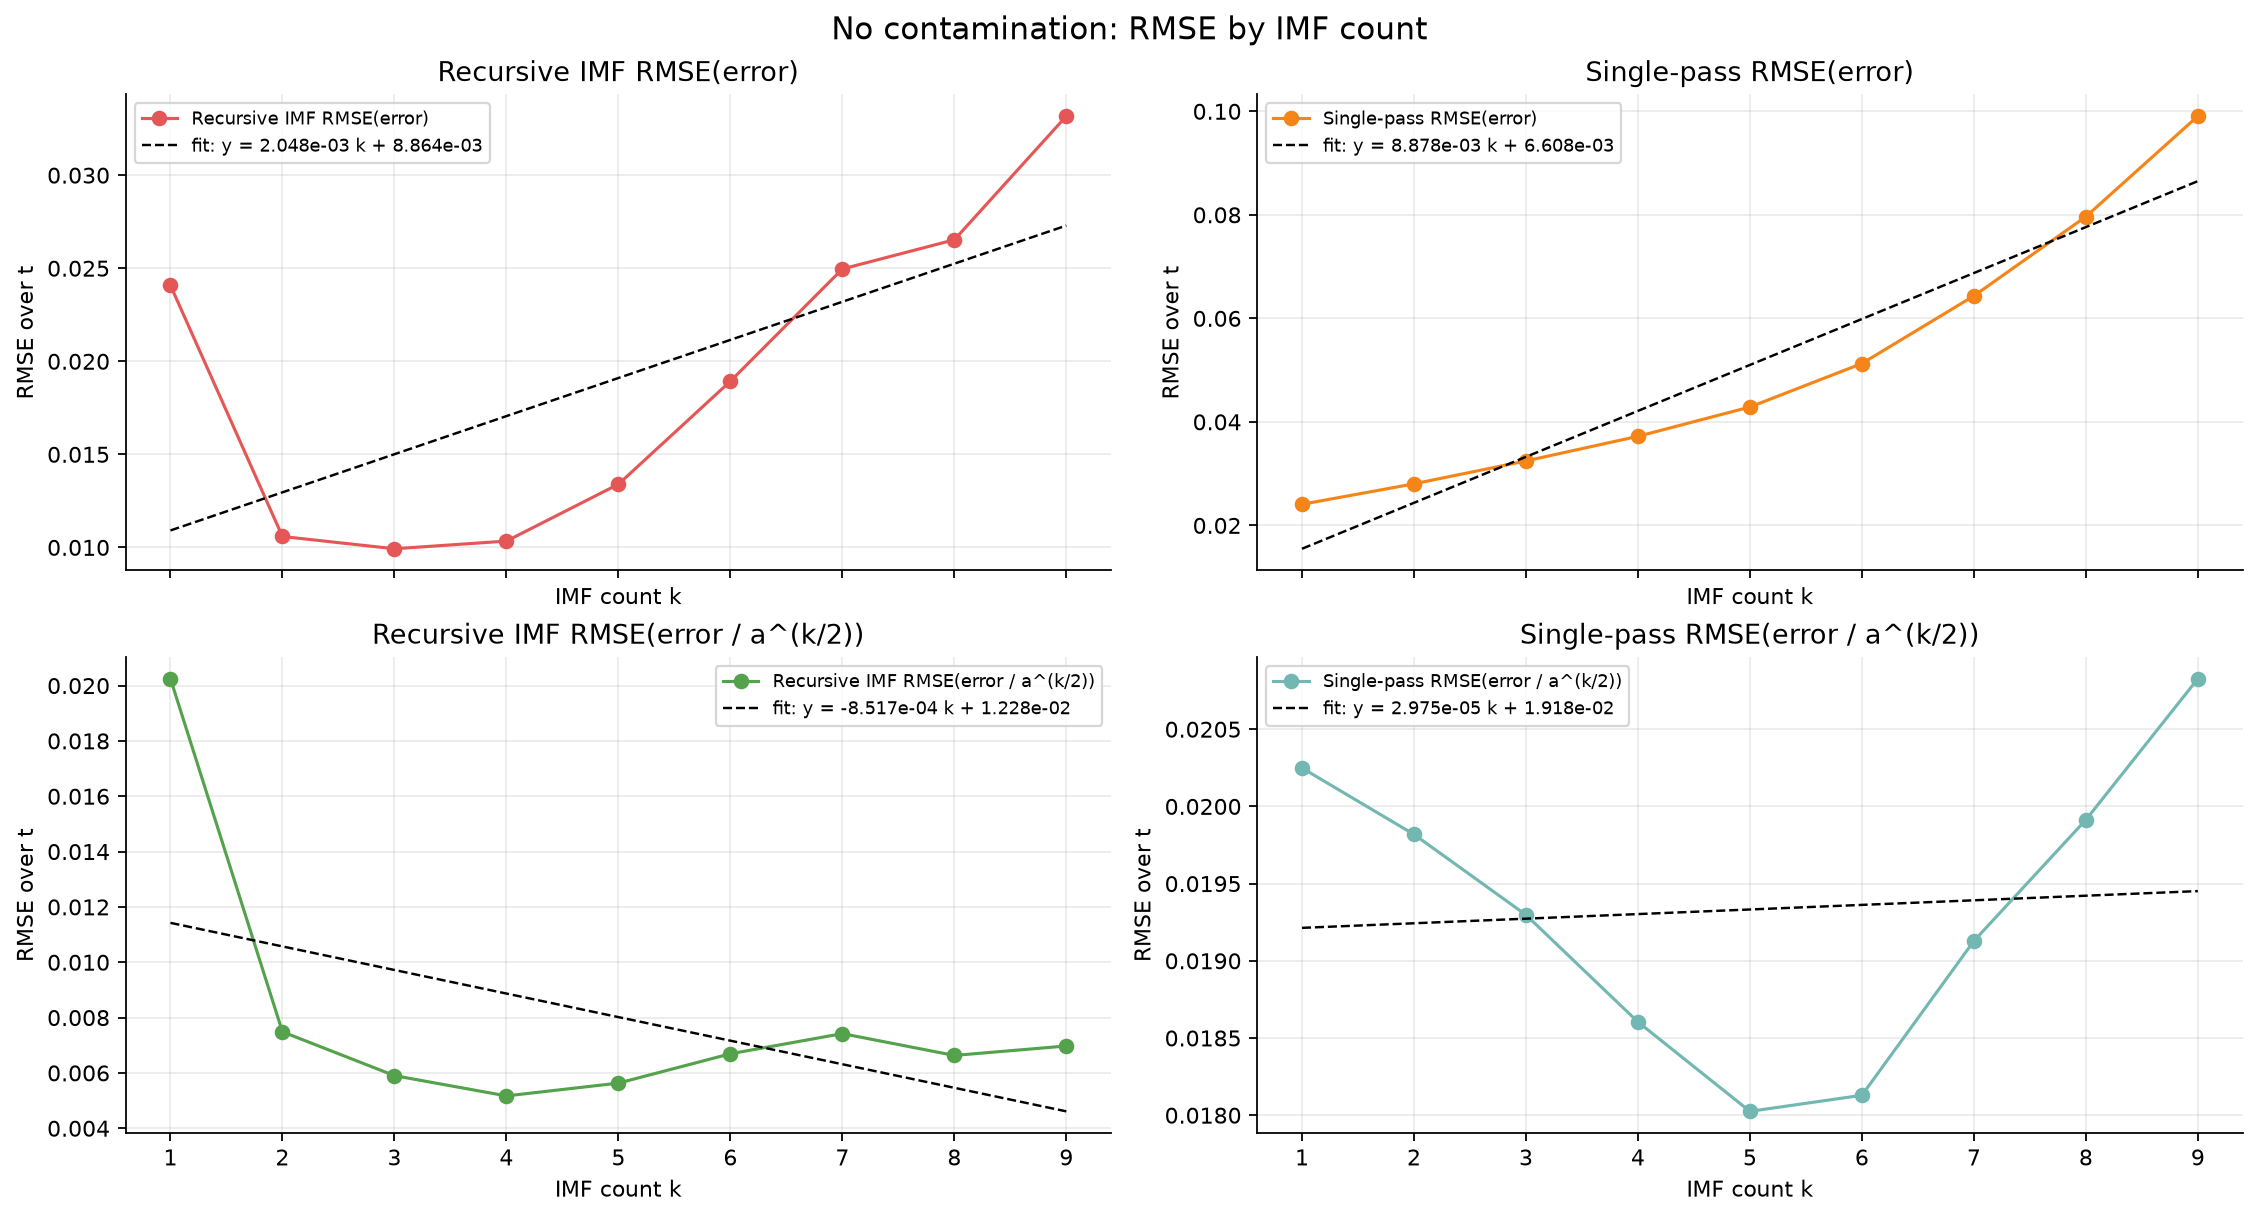
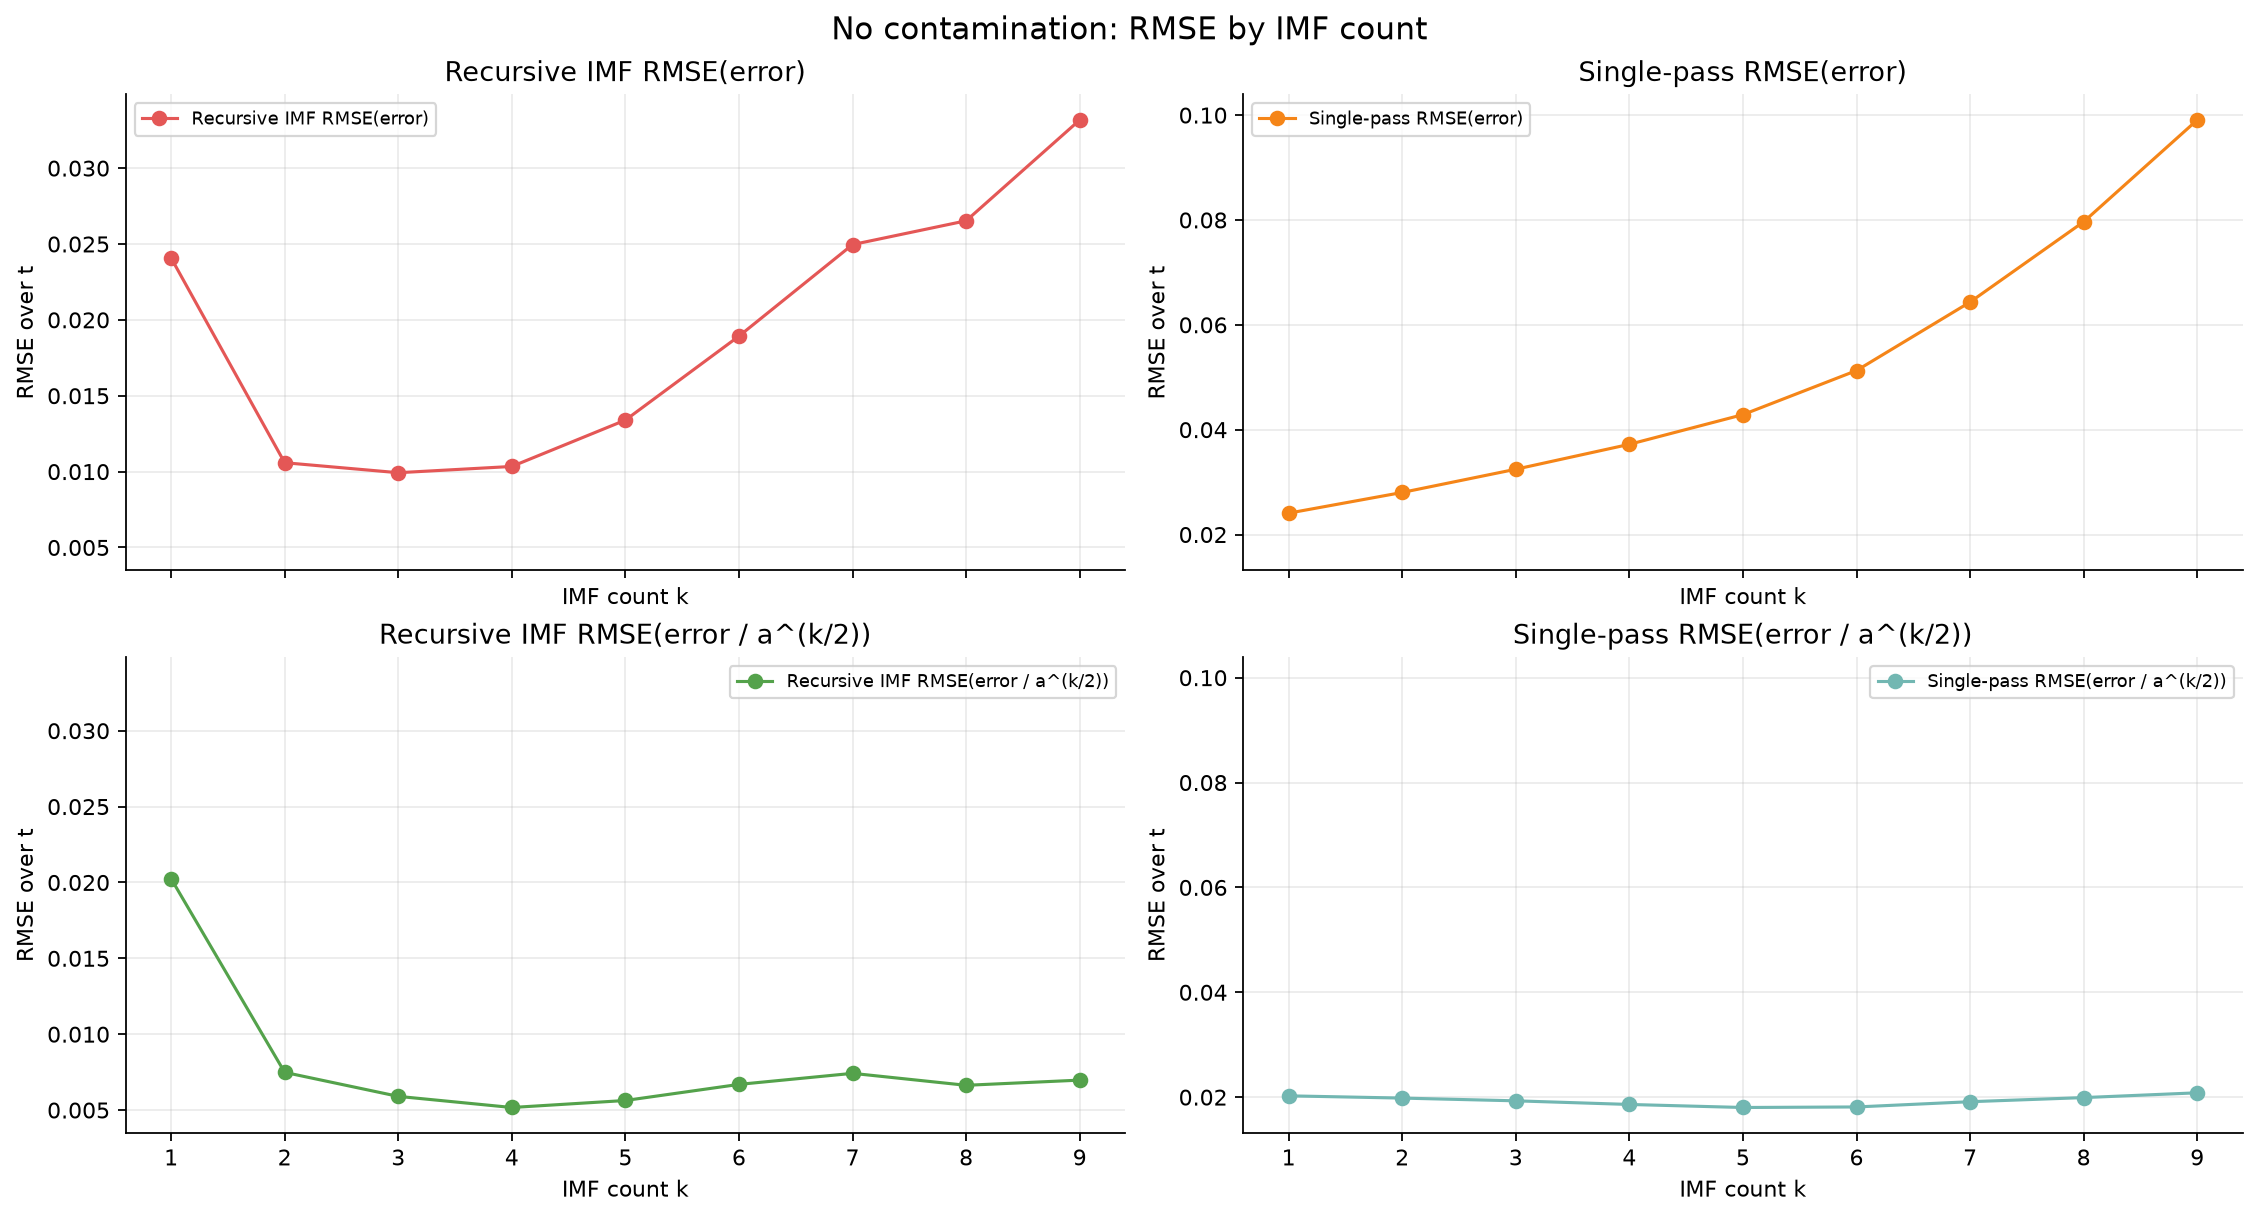
Remove error trend fit lines

diff --git a/gd_imf_real_vs_calculated_review.tex b/gd_imf_real_vs_calculated_review.tex
@@ -39,9 +39,19 @@ from the same signal and noise settings. The notebook compares two cases:
 \]
 Thus the clean reference uses the same contrast as the estimator in each case.
 
-The component errors below are errors of the recursive IMF components, not
-single-pass smoothing errors at each bandwidth. In the linear case, let
-\(W_{h_k}\) denote the weighted-mean smoother at bandwidth \(h_k\). Then
+There are two different error quantities in the notebook.
+
+\begin{enumerate}
+\item The \emph{recursive IMF-component error} is the error in the component that
+is actually extracted at stage \(k\):
+\[
+e_k(t)=\widetilde S^{(k)}_{\mathrm{calculated}}(t)
+-\widetilde S^{(k)}_{\mathrm{real}}(t).
+\]
+This is the error shown in the IMF grids. It is not just the stage-\(k\) smoother
+applied to the original noise, because stage \(k\) is fitted to the current
+residual after stages \(1,\ldots,k-1\) have already been subtracted. In the linear
+case, if \(W_{h_k}\) is the weighted-mean smoother at bandwidth \(h_k\), then
 \[
 e_1 = W_{h_1}\varepsilon,
 \qquad
@@ -49,18 +59,22 @@ e_k =
 W_{h_k}(I-W_{h_{k-1}})\cdots(I-W_{h_1})\varepsilon
 \quad (k>1).
 \]
-Thus the heuristic that larger windows have smaller noise error applies to the
-single-pass quantities
+
+\item The \emph{single-pass error} is the diagnostic error obtained by applying
+the stage-\(k\) smoother directly to the original clean and noisy observations,
+without recursive residual subtraction. In the linear case this quantity is
 \[
-d_k = W_{h_k}\varepsilon,
+d_k = W_{h_k}\varepsilon.
 \]
-while the recursive IMF errors also include the previous residual subtractions.
-The notebook reports both \(e_k\) and this single-pass diagnostic \(d_k\). The
-robust case is nonlinear, so \(d_k\) is computed as the difference between one
-robust local fit applied to \(Y\) and one robust local fit applied to \(X\) at the
-same bandwidth. The same interpretation applies because
-\(\widetilde S^{(k)}\) is always fitted to the current residual \(Y^{(k)}\), not
-to the original observation \(Y\).
+This is the quantity to use when checking the heuristic that larger windows have
+smaller noise error, and that the error grows as the window size decreases.
+\end{enumerate}
+
+The notebook reports both \(e_k\) and \(d_k\). The robust case is nonlinear, so
+\(d_k\) is computed as the difference between one robust local fit applied to
+\(Y\) and one robust local fit applied to \(X\) at the same bandwidth. The same
+distinction still applies because \(\widetilde S^{(k)}\) is always fitted to the
+current residual \(Y^{(k)}\), not directly to the original observation \(Y\).
 
 For the linear case, the contrast is quadratic,
 \[
@@ -140,13 +154,14 @@ The scalar error trend for each IMF count \(k\) is the RMSE over the time grid:
 \operatorname{RMSE}(e_k)
 = \left(\frac{1}{n}\sum_{t=1}^n e_k(t)^2\right)^{1/2}.
 \]
-The trend plots fit a line
+For the coefficient summaries, the notebook fits a line
 \[
 r_k = \beta_1 k + \beta_0
 \]
 to \(\operatorname{RMSE}(e_k)\), \(\operatorname{RMSE}(d_k)\),
 \(\operatorname{RMSE}(a^{-k/2}e_k)\), and
-\(\operatorname{RMSE}(a^{-k/2}d_k)\).
+\(\operatorname{RMSE}(a^{-k/2}d_k)\). The error plots themselves show only the
+stage-wise RMSE values.
 
 All four decompositions reconstruct their respective inputs up to numerical
 precision: